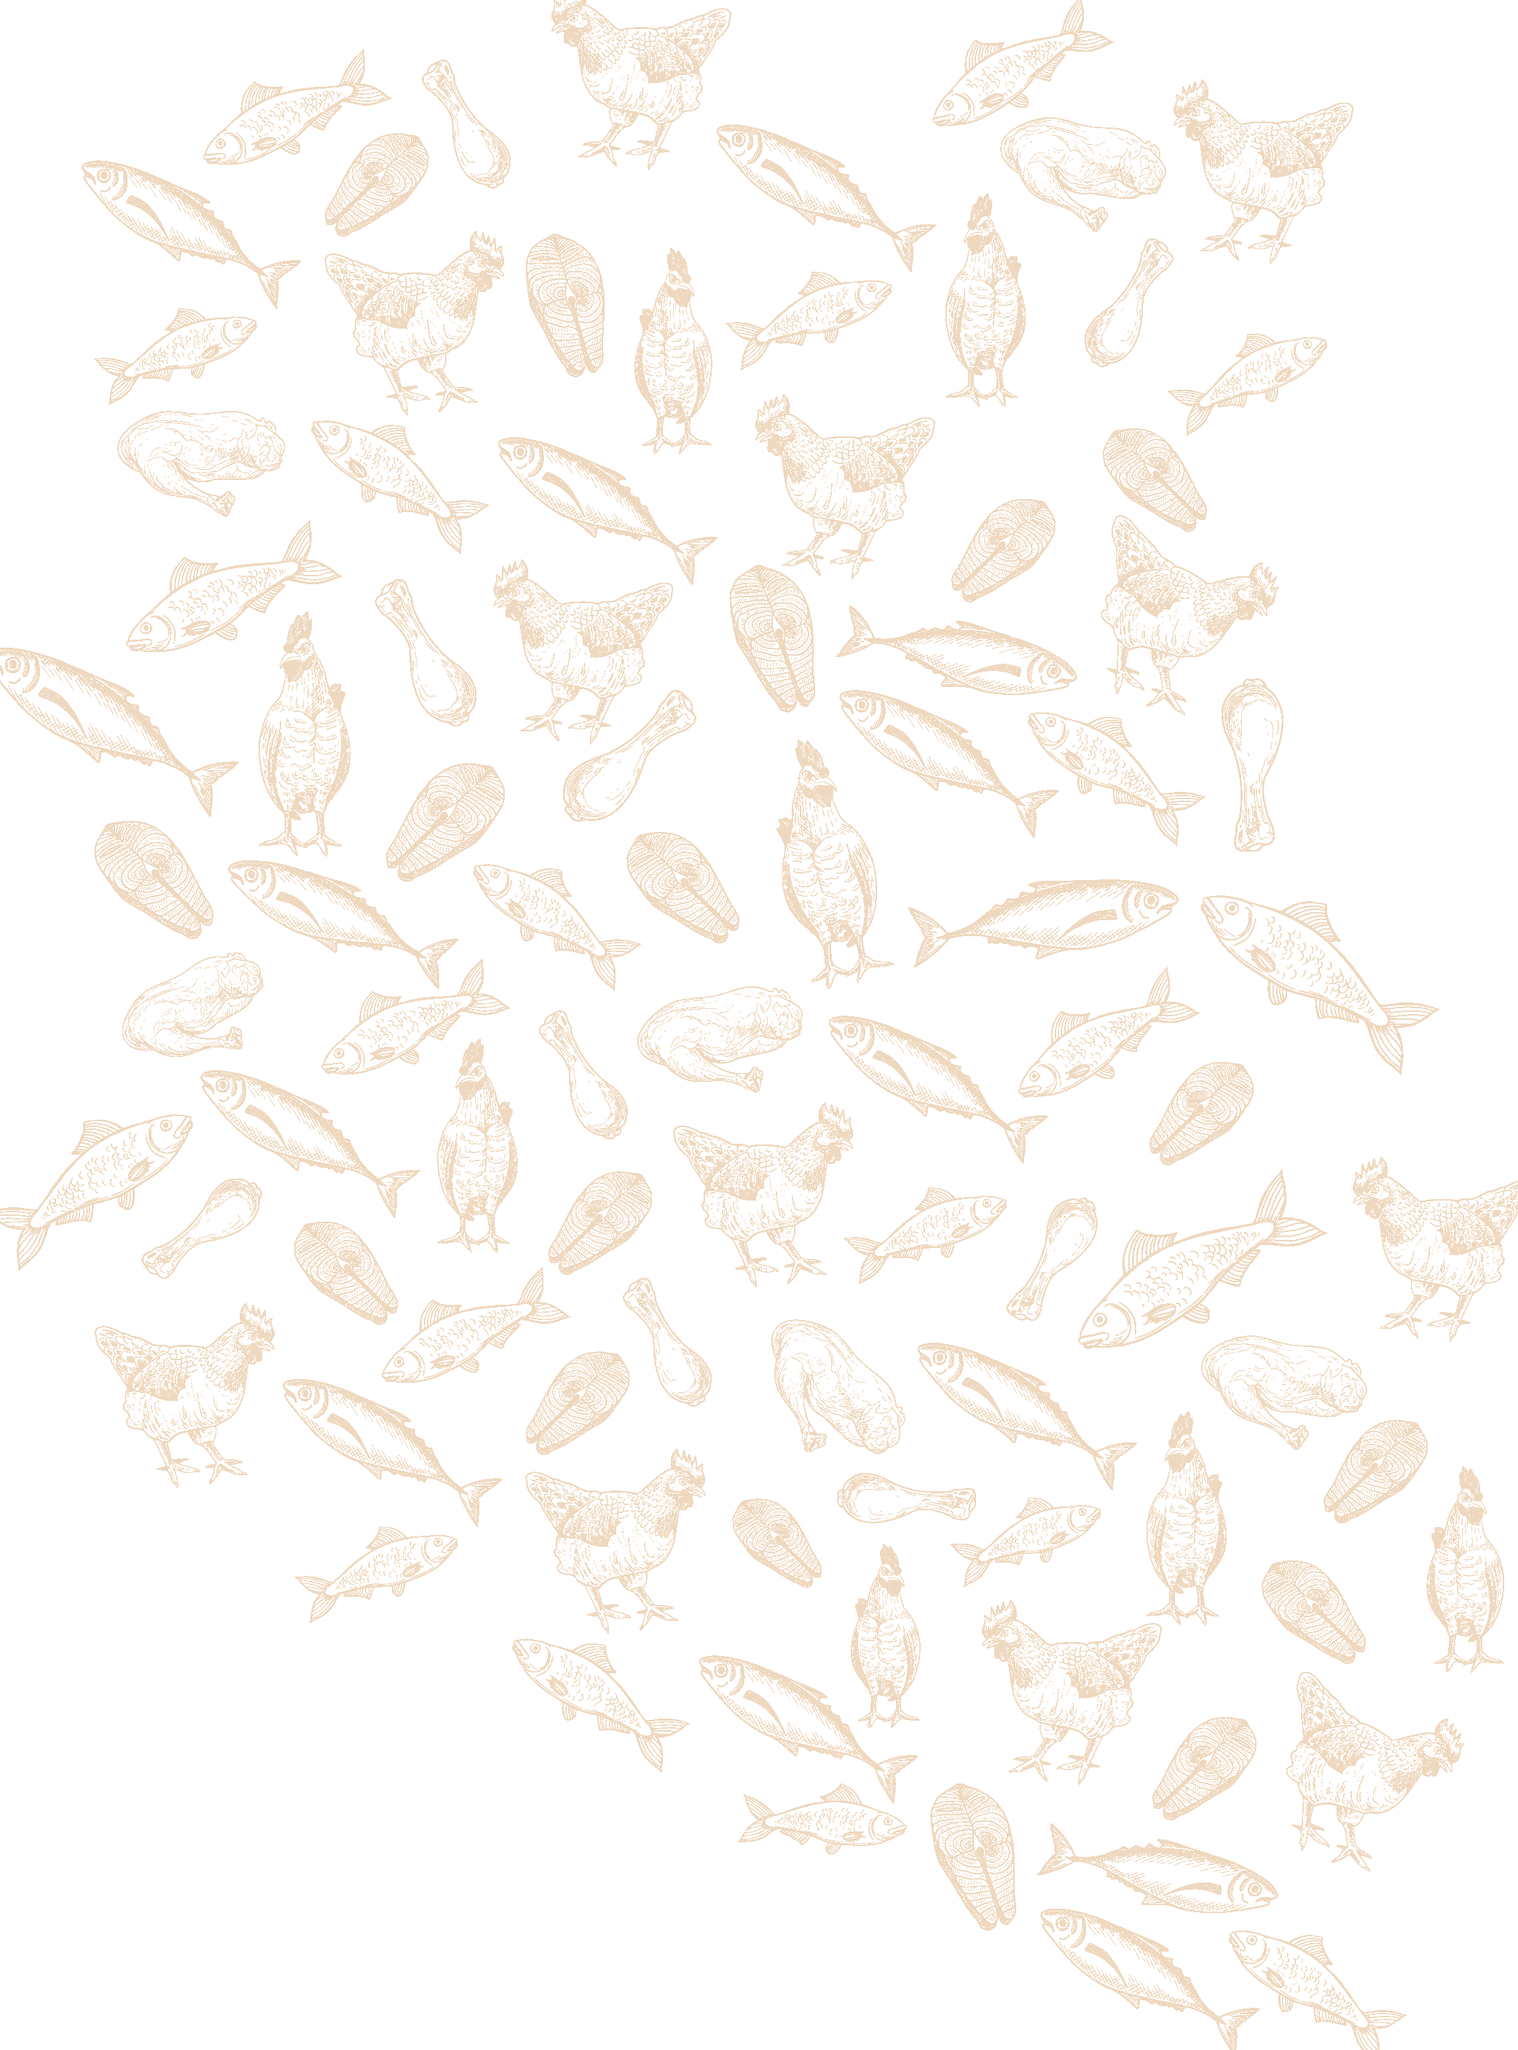
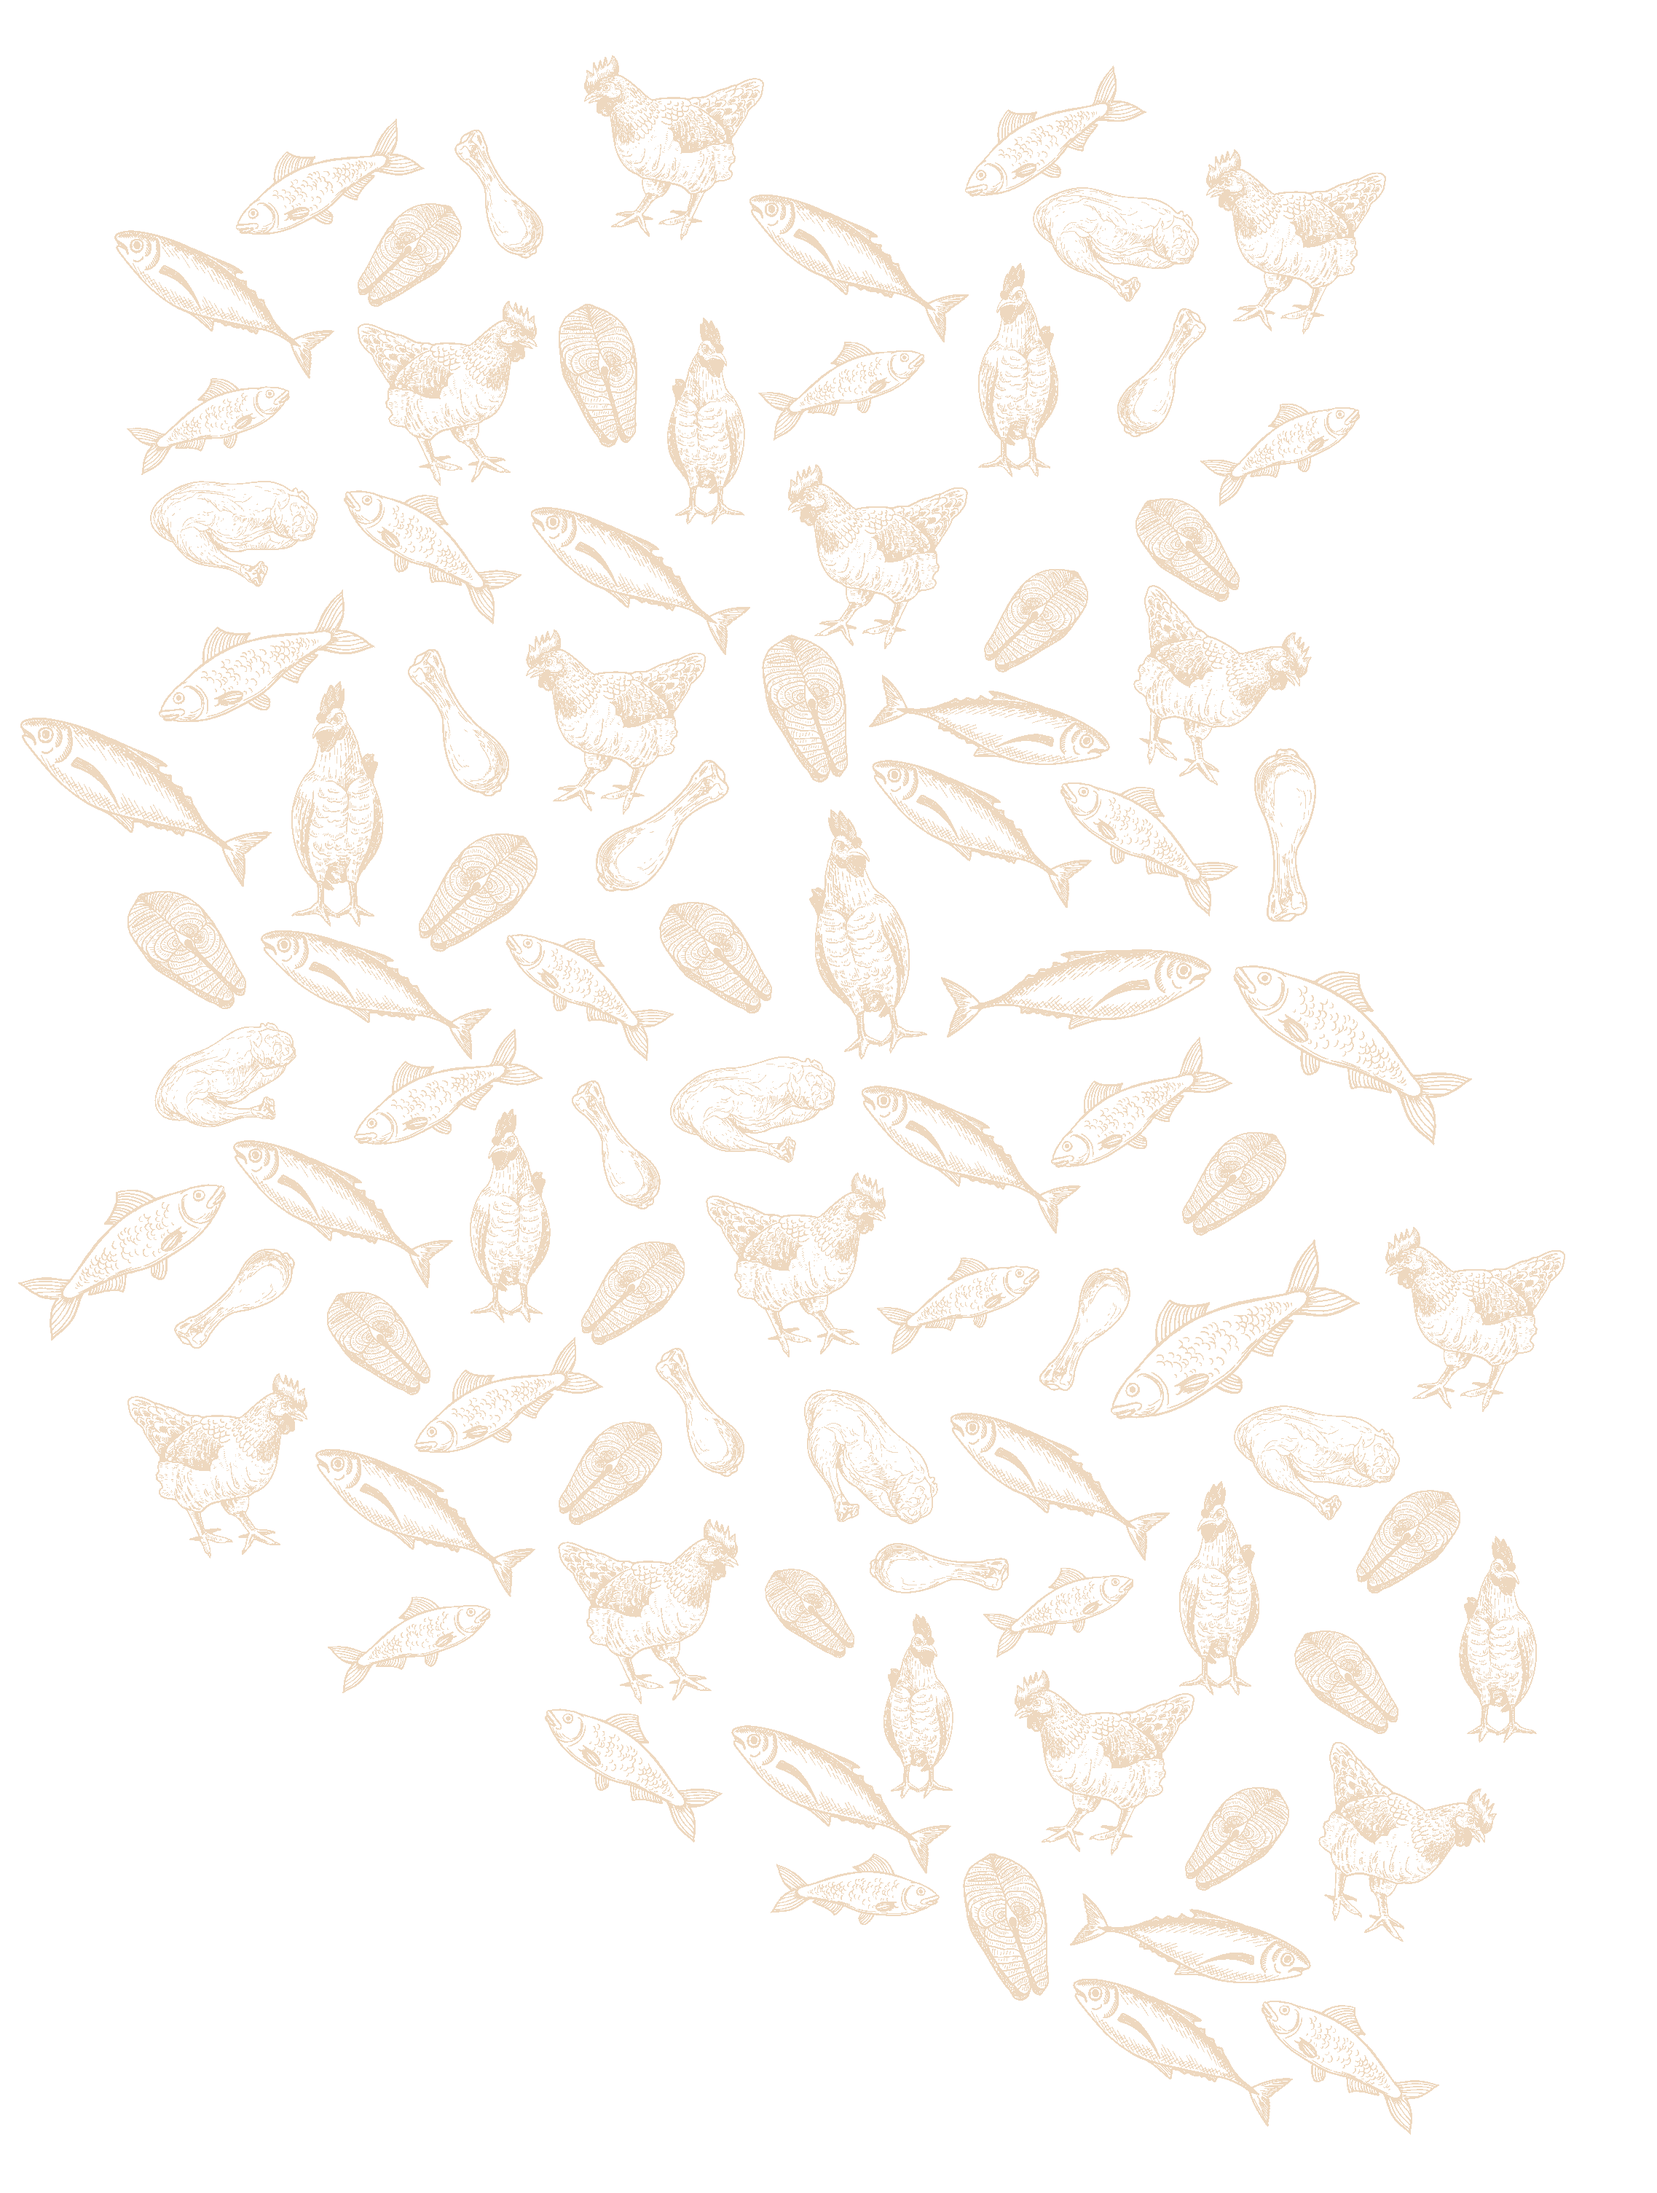
Update pattern, fonts, layout and styling

Changed region(s): [[0.0, 0.0, 1.0, 1.0], [0.9045, 0.4947, 0.9357, 0.5256]]

diff --git a/css/styles.css b/css/styles.css
@@ -230,9 +230,9 @@ p  { margin: 0 0 1rem; }
   position: relative;
   background-color: var(--orange);
   background-image: url('../assets/brand/munchee-pattern.png');
-  background-size: 1452px auto;
+  background-size: 1575px auto;
   background-repeat: repeat;
-  background-position: 0 0;
+  background-position: 30% center;
   background-blend-mode: multiply;
   color: var(--white);
   overflow: hidden;
@@ -292,6 +292,7 @@ p  { margin: 0 0 1rem; }
   padding: clamp(20px, 3vw, 40px) clamp(10px, 2vw, 24px);
   filter: drop-shadow(0 18px 30px rgba(0,0,0,0.18));
   margin-top: -15%;
+  margin-left: 25%;
 }
 .hero-cat svg,
 .hero-cat img {
